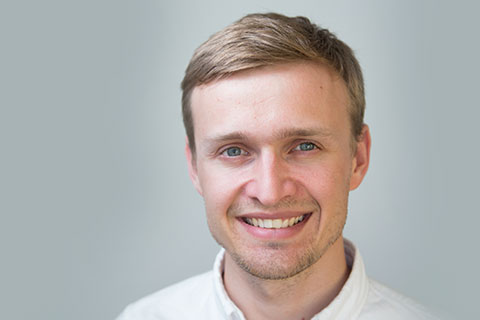
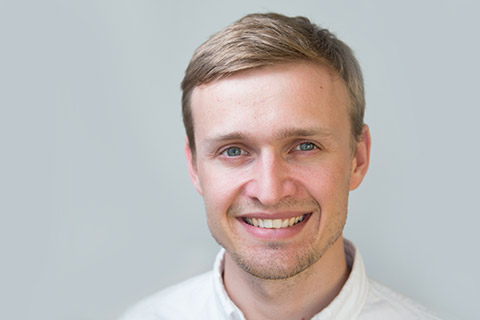
Justify text, update eng header.

diff --git a/styles.css b/styles.css
@@ -30,7 +30,7 @@ a:active {
 }
 
 #header-eng {
-	background-color: #a8b3b5;
+	background-color: #bfc8cd;
 	width: 100%;
 	height: 320px;
 	background-image: url("face-eng.jpg");
@@ -110,6 +110,8 @@ a.menu_link_current {
 	width: 80%;
 	color: #333;
 	font-size: 18px;
+	text-align: justify;
+    text-justify: inter-word;
 }
 
 #content-center {
